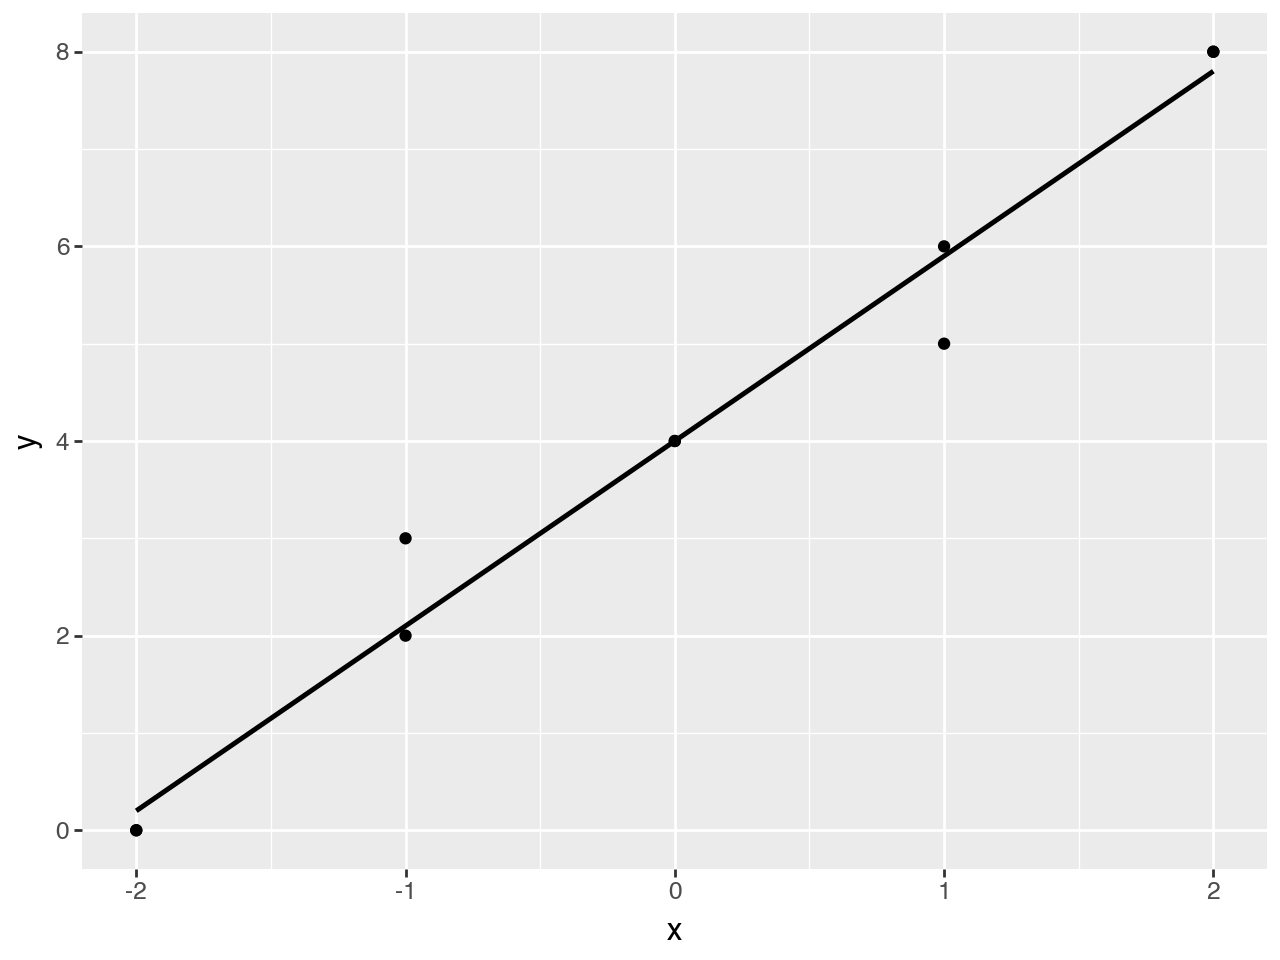
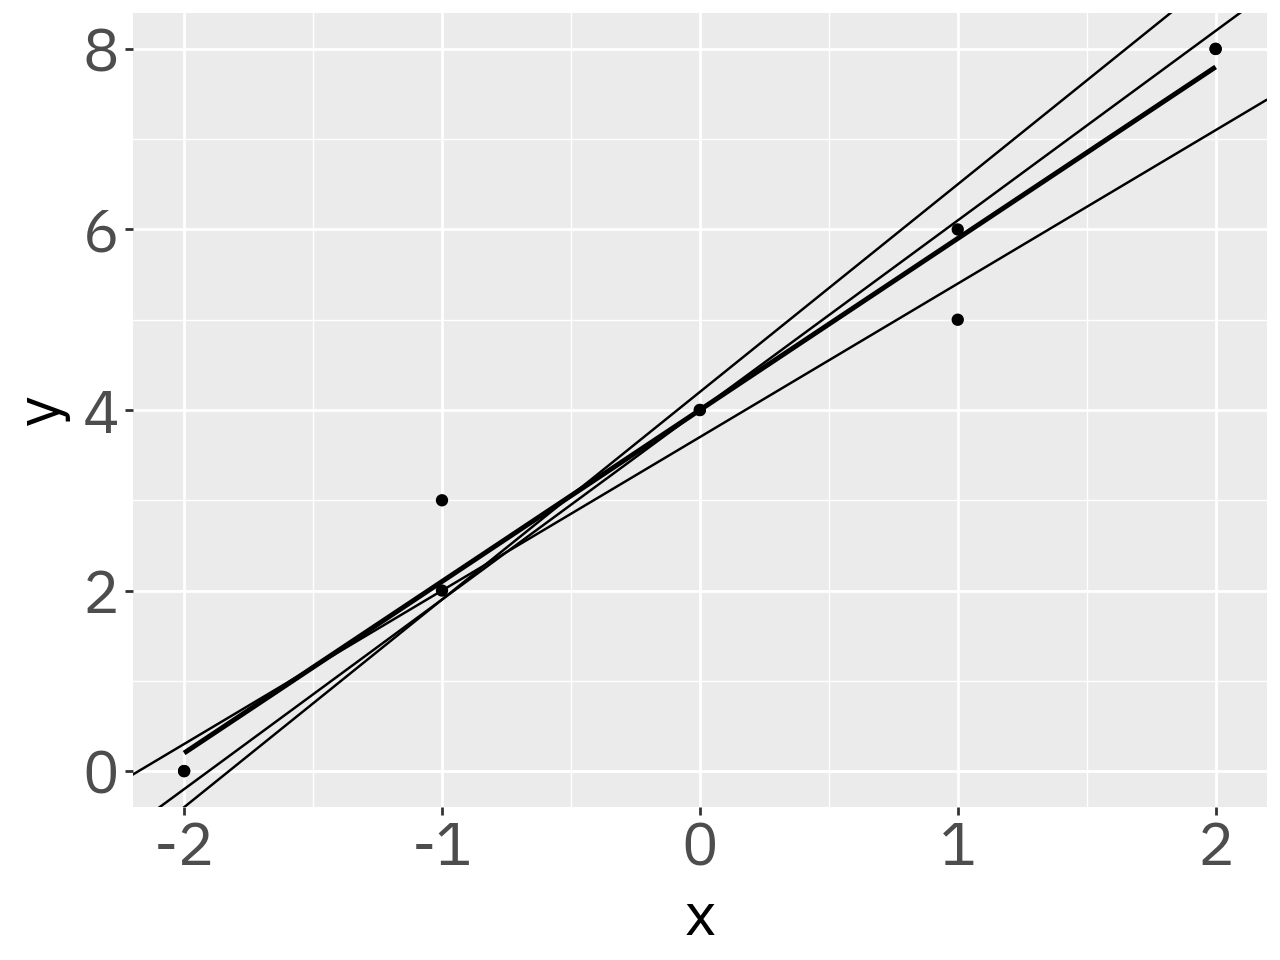
feat: add regression

diff --git a/docs/index.html b/docs/index.html
@@ -426,7 +426,7 @@ Thiago Pires <br> –
 
 </div>
 <script type="pyodide-1-contents">
[2 lines of base64/hex data omitted]
 </script>
 </div>
 </div>
@@ -448,7 +448,7 @@ eyJhdHRyIjp7ImVkaXQiOnRydWUsImV2YWwiOnRydWV9LCJjb2RlIjoiIyBUaXBvIGludGVpcm8gKGlu
 
 </div>
 <script type="pyodide-2-contents">
[2 lines of base64/hex data omitted]
 </script>
 </div>
 </div><div class="column" style="width:48%;">
@@ -475,7 +475,7 @@ eyJhdHRyIjp7ImVkaXQiOnRydWUsImV2YWwiOnRydWV9LCJjb2RlIjoieCA9IDZcblxuaWYgeCA+IDM6
 
 </div>
 <script type="pyodide-3-contents">
[2 lines of base64/hex data omitted]
 </script>
 </div>
 </div>
@@ -503,7 +503,7 @@ eyJhdHRyIjp7ImVkaXQiOnRydWUsImV2YWwiOnRydWV9LCJjb2RlIjoieCA9IDFcbndoaWxlIHggPD0g
 
 </div>
 <script type="pyodide-4-contents">
[2 lines of base64/hex data omitted]
 </script>
 </div>
 </div>
@@ -530,7 +530,7 @@ eyJhdHRyIjp7ImVkaXQiOnRydWUsImV2YWwiOnRydWV9LCJjb2RlIjoieCA9IDFcbnNvbWEgPSAwXG53
 
 </div>
 <script type="pyodide-5-contents">
[2 lines of base64/hex data omitted]
 </script>
 </div>
 </div>
@@ -546,7 +546,7 @@ eyJhdHRyIjp7ImVkaXQiOnRydWUsImV2YWwiOnRydWV9LCJjb2RlIjoieCA9IFsxLCA1LCAzLCBcImJc
 <div class="columns">
 <div class="column addspace" style="width:45%;">
 <p>O <code>for</code> é uma forma mais prática de trabalhar com repetições quando estamos operando sobre uma lista</p>
-<div id="0612d724" class="cell" data-execution_count="1">
+<div id="7a82af3d" class="cell" data-execution_count="1">
 <div class="sourceCode cell-code" id="cb1"><pre class="sourceCode numberSource python number-lines code-with-copy"><code class="sourceCode python"><span id="cb1-1"><a href=""></a><span class="cf">for</span> i <span class="kw">in</span> [<span class="dv">1</span>, <span class="dv">2</span>, <span class="dv">3</span>, <span class="dv">4</span>]:</span>
 <span id="cb1-2"><a href=""></a>  <span class="bu">print</span>(i<span class="op">**</span><span class="dv">2</span>)</span></code><button title="Copy to Clipboard" class="code-copy-button"><i class="bi"></i></button></pre></div>
 <div class="cell-output cell-output-stdout">
@@ -563,7 +563,7 @@ eyJhdHRyIjp7ImVkaXQiOnRydWUsImV2YWwiOnRydWV9LCJjb2RlIjoieCA9IFsxLCA1LCAzLCBcImJc
 
 </div>
 <script type="pyodide-6-contents">
[2 lines of base64/hex data omitted]
 </script>
 </div>
 </div>
@@ -579,7 +579,7 @@ eyJhdHRyIjp7ImVkaXQiOnRydWUsImV2YWwiOnRydWV9LCJjb2RlIjoiW2kqKjIgZm9yIGkgaW4gWzEs
 <p><a href="https://viacep.com.br/" class="uri">https://viacep.com.br/</a></p>
 <p><br>
 </p>
-<div id="cd329b13" class="cell" data-execution_count="2">
+<div id="cdd88b28" class="cell" data-execution_count="2">
 <div class="sourceCode cell-code" id="cb3"><pre class="sourceCode numberSource python number-lines code-with-copy"><code class="sourceCode python"><span id="cb3-1"><a href=""></a><span class="im">import</span> requests</span>
 <span id="cb3-2"><a href=""></a></span>
 <span id="cb3-3"><a href=""></a><span class="co"># Função que fará requisição à API</span></span>
@@ -597,7 +597,7 @@ eyJhdHRyIjp7ImVkaXQiOnRydWUsImV2YWwiOnRydWV9LCJjb2RlIjoiW2kqKjIgZm9yIGkgaW4gWzEs
 <span id="cb3-15"><a href=""></a>             <span class="st">"20720293"</span>]</span>
 <span id="cb3-16"><a href=""></a></span>
 <span id="cb3-17"><a href=""></a>[consulta_cep(cep)[<span class="dv">0</span>] <span class="cf">for</span> cep <span class="kw">in</span> lista_cep <span class="cf">if</span> consulta_cep(cep)[<span class="dv">1</span>] <span class="op">==</span> <span class="st">"SP"</span>]</span></code><button title="Copy to Clipboard" class="code-copy-button"><i class="bi"></i></button></pre></div>
-<div class="cell-output cell-output-display" data-execution_count="128">
+<div class="cell-output cell-output-display" data-execution_count="43">
 <pre><code>['Rua Joaquim Marcelino Leite',
  'Avenida Cabo Pedro Hoffman',
  'Rua José de Anchieta',
@@ -610,7 +610,7 @@ eyJhdHRyIjp7ImVkaXQiOnRydWUsImV2YWwiOnRydWV9LCJjb2RlIjoiW2kqKjIgZm9yIGkgaW4gWzEs
 <p><a href="https://dadosabertos.bcb.gov.br/dataset/dolar-americano-usd-todos-os-boletins-diarios" class="uri">https://dadosabertos.bcb.gov.br/dataset/dolar-americano-usd-todos-os-boletins-diarios</a></p>
 <p><br>
 </p>
-<div id="5717b074" class="cell" data-execution_count="3">
+<div id="f6623b0a" class="cell" data-execution_count="3">
 <div class="sourceCode cell-code" id="cb5"><pre class="sourceCode numberSource python number-lines code-with-copy"><code class="sourceCode python"><span id="cb5-1"><a href=""></a><span class="im">import</span> requests</span>
 <span id="cb5-2"><a href=""></a><span class="kw">def</span> cotar(data):</span>
 <span id="cb5-3"><a href=""></a>  url <span class="op">=</span> <span class="ss">f"https://olinda.bcb.gov.br/olinda/servico/PTAX/versao/v1/odata/CotacaoDolarDia(dataCotacao=@dataCotacao)?%40dataCotacao='</span><span class="sc">{</span>data<span class="sc">}</span><span class="ss">'&amp;%24format=json"</span></span>
@@ -619,7 +619,7 @@ eyJhdHRyIjp7ImVkaXQiOnRydWUsImV2YWwiOnRydWV9LCJjb2RlIjoiW2kqKjIgZm9yIGkgaW4gWzEs
 <span id="cb5-6"><a href=""></a>  <span class="cf">return</span> res[<span class="st">'value'</span>][<span class="dv">0</span>][<span class="st">'cotacaoVenda'</span>]</span>
 <span id="cb5-7"><a href=""></a></span>
 <span id="cb5-8"><a href=""></a>cotar(<span class="st">"08282024"</span>)</span></code><button title="Copy to Clipboard" class="code-copy-button"><i class="bi"></i></button></pre></div>
-<div class="cell-output cell-output-display" data-execution_count="129">
+<div class="cell-output cell-output-display" data-execution_count="44">
 <pre><code>5.5315</code></pre>
 </div>
 </div>
@@ -632,10 +632,10 @@ eyJhdHRyIjp7ImVkaXQiOnRydWUsImV2YWwiOnRydWV9LCJjb2RlIjoiW2kqKjIgZm9yIGkgaW4gWzEs
 <p><br>
 </p>
 <p>Para resolver este problema precisamos ententender como o Python lida com datas. É possível transformar uma string <code>"08122024"</code> em um tipo de dado <code>datetime</code>. O argumento <code>"%m%d%Y"</code> é para identificar como a estrutura da data está sendo recebida - mês, dia e ano</p>
-<div id="37a89c5f" class="cell" data-execution_count="4">
+<div id="077671b5" class="cell" data-execution_count="4">
 <div class="sourceCode cell-code" id="cb7"><pre class="sourceCode numberSource python number-lines code-with-copy"><code class="sourceCode python"><span id="cb7-1"><a href=""></a><span class="im">from</span> datetime <span class="im">import</span> datetime</span>
 <span id="cb7-2"><a href=""></a>datetime.strptime(<span class="st">"08122024"</span>, <span class="st">"%m</span><span class="sc">%d</span><span class="st">%Y"</span>)</span></code><button title="Copy to Clipboard" class="code-copy-button"><i class="bi"></i></button></pre></div>
-<div class="cell-output cell-output-display" data-execution_count="130">
+<div class="cell-output cell-output-display" data-execution_count="45">
 <pre><code>datetime.datetime(2024, 8, 12, 0, 0)</code></pre>
 </div>
 </div>
@@ -645,7 +645,7 @@ eyJhdHRyIjp7ImVkaXQiOnRydWUsImV2YWwiOnRydWV9LCJjb2RlIjoiW2kqKjIgZm9yIGkgaW4gWzEs
 
 </div>
 <script type="pyodide-7-contents">
[2 lines of base64/hex data omitted]
 </script>
 </div>
 </section>
@@ -654,11 +654,11 @@ eyJhdHRyIjp7ImVkaXQiOnRydWUsImV2YWwiOnRydWV9LCJjb2RlIjoiZnJvbSBkYXRldGltZSBpbXBv
 <p><br>
 </p>
 <p>Para retornar de um tipo <code>datetime</code> para uma <em>string</em>, com a estrutura <code>"%m%d%Y"</code>,pode-se utilizar a função <code>strftime</code></p>
-<div id="06aa5075" class="cell" data-execution_count="5">
+<div id="2ad804f0" class="cell" data-execution_count="5">
 <div class="sourceCode cell-code" id="cb9"><pre class="sourceCode numberSource python number-lines code-with-copy"><code class="sourceCode python"><span id="cb9-1"><a href=""></a><span class="im">from</span> datetime <span class="im">import</span> datetime, timedelta</span>
 <span id="cb9-2"><a href=""></a>data <span class="op">=</span> datetime.strptime(<span class="st">"08122024"</span>, <span class="st">"%m</span><span class="sc">%d</span><span class="st">%Y"</span>) <span class="op">-</span> timedelta(<span class="dv">1</span>)</span>
 <span id="cb9-3"><a href=""></a>datetime.strftime(data, <span class="st">"%m</span><span class="sc">%d</span><span class="st">%Y"</span>) </span></code><button title="Copy to Clipboard" class="code-copy-button"><i class="bi"></i></button></pre></div>
-<div class="cell-output cell-output-display" data-execution_count="131">
+<div class="cell-output cell-output-display" data-execution_count="46">
 <pre><code>'08112024'</code></pre>
 </div>
 </div>
@@ -668,7 +668,7 @@ eyJhdHRyIjp7ImVkaXQiOnRydWUsImV2YWwiOnRydWV9LCJjb2RlIjoiZnJvbSBkYXRldGltZSBpbXBv
 <p><br>
 </p>
 <p>Nos dias <em>não úteis</em> a API retorna uma lista vazia na chave <code>value</code></p>
-<div id="d50b7d49" class="cell" data-execution_count="6">
+<div id="e6584169" class="cell" data-execution_count="6">
 <div class="sourceCode cell-code" id="cb11"><pre class="sourceCode numberSource python number-lines code-with-copy"><code class="sourceCode python"><span id="cb11-1"><a href=""></a>data <span class="op">=</span> <span class="st">"09012024"</span></span>
 <span id="cb11-2"><a href=""></a></span>
 <span id="cb11-3"><a href=""></a>url <span class="op">=</span> <span class="ss">f"https://olinda.bcb.gov.br/olinda/servico/PTAX/versao/v1/odata/CotacaoDolarDia(dataCotacao=@dataCotacao)?%40dataCotacao='</span><span class="sc">{</span>data<span class="sc">}</span><span class="ss">'&amp;%24format=json"</span></span>
@@ -684,7 +684,7 @@ eyJhdHRyIjp7ImVkaXQiOnRydWUsImV2YWwiOnRydWV9LCJjb2RlIjoiZnJvbSBkYXRldGltZSBpbXBv
 <h2>Consultado a cotação do Dólar</h2>
 <p><br>
 </p>
-<div id="c90f0af7" class="cell" data-execution_count="7">
+<div id="82891ac6" class="cell" data-execution_count="7">
 <div class="sourceCode cell-code" id="cb13"><pre class="sourceCode numberSource python number-lines code-with-copy"><code class="sourceCode python"><span id="cb13-1"><a href=""></a><span class="im">import</span> requests</span>
 <span id="cb13-2"><a href=""></a></span>
 <span id="cb13-3"><a href=""></a><span class="kw">def</span> cotar(data):</span>
@@ -699,7 +699,7 @@ eyJhdHRyIjp7ImVkaXQiOnRydWUsImV2YWwiOnRydWV9LCJjb2RlIjoiZnJvbSBkYXRldGltZSBpbXBv
 <span id="cb13-12"><a href=""></a>    <span class="cf">return</span> cotar(dia_anterior)</span>
 <span id="cb13-13"><a href=""></a></span>
 <span id="cb13-14"><a href=""></a>[cotar(i) <span class="cf">for</span> i <span class="kw">in</span> [<span class="st">"09022024"</span>, <span class="st">"09012024"</span>, <span class="st">"08312024"</span>, <span class="st">"08302024"</span>, <span class="st">"08292024"</span>]]</span></code><button title="Copy to Clipboard" class="code-copy-button"><i class="bi"></i></button></pre></div>
-<div class="cell-output cell-output-display" data-execution_count="133">
+<div class="cell-output cell-output-display" data-execution_count="48">
 <pre><code>[5.623, 5.6562, 5.6562, 5.6562, 5.6358]</code></pre>
 </div>
 </div>
@@ -722,7 +722,7 @@ eyJhdHRyIjp7ImVkaXQiOnRydWUsImV2YWwiOnRydWV9LCJjb2RlIjoiZnJvbSBkYXRldGltZSBpbXBv
 <h3 id="autenticação">Autenticação</h3>
 <p><br>
 </p>
-<div id="bdbde274" class="cell" data-execution_count="8">
+<div id="2917d308" class="cell" data-execution_count="8">
 <div class="sourceCode cell-code" id="annotated-cell-7"><pre class="sourceCode numberSource python code-annotation-code number-lines code-with-copy code-annotated"><code class="sourceCode python"><span id="annotated-cell-7-1"><a href="#annotated-cell-7-1"></a><span class="im">import</span> os</span>
 <span id="annotated-cell-7-2"><a href="#annotated-cell-7-2"></a><span class="im">import</span> requests</span>
 <span id="annotated-cell-7-3"><a href="#annotated-cell-7-3"></a><span class="im">from</span> dotenv <span class="im">import</span> load_dotenv</span>
@@ -749,10 +749,10 @@ eyJhdHRyIjp7ImVkaXQiOnRydWUsImV2YWwiOnRydWV9LCJjb2RlIjoiZnJvbSBkYXRldGltZSBpbXBv
 </dd>
 </dl>
 </div>
-<div class="cell-output cell-output-display" data-execution_count="134">
+<div class="cell-output cell-output-display" data-execution_count="49">
 <pre><code>True</code></pre>
 </div>
-<div class="cell-output cell-output-display" data-execution_count="134">
+<div class="cell-output cell-output-display" data-execution_count="49">
 <pre><code>&lt;Response [200]&gt;</code></pre>
 </div>
 </div>
@@ -762,7 +762,7 @@ eyJhdHRyIjp7ImVkaXQiOnRydWUsImV2YWwiOnRydWV9LCJjb2RlIjoiZnJvbSBkYXRldGltZSBpbXBv
 <h3 id="busca-por-linhas-segundo-termos">Busca por linhas segundo termos</h3>
 <p><br>
 </p>
-<div id="bd07a92e" class="cell" data-execution_count="9">
+<div id="8e193631" class="cell" data-execution_count="9">
 <div class="sourceCode cell-code" id="annotated-cell-8"><pre class="sourceCode numberSource python code-annotation-code number-lines code-with-copy code-annotated"><code class="sourceCode python"><button class="code-annotation-anchor" data-target-cell="annotated-cell-8" data-target-annotation="1">1</button><span id="annotated-cell-8-1" class="code-annotation-target"><a href="#annotated-cell-8-1"></a>linhas_lapa <span class="op">=</span> s.get(</span>
 <span id="annotated-cell-8-2"><a href="#annotated-cell-8-2"></a>    <span class="st">"http://api.olhovivo.sptrans.com.br/v2.1/Linha/Buscar?termosBusca=Lapa"</span></span>
 <span id="annotated-cell-8-3"><a href="#annotated-cell-8-3"></a>)</span>
@@ -780,7 +780,7 @@ eyJhdHRyIjp7ImVkaXQiOnRydWUsImV2YWwiOnRydWV9LCJjb2RlIjoiZnJvbSBkYXRldGltZSBpbXBv
 </dd>
 </dl>
 </div>
-<div class="cell-output cell-output-display" data-execution_count="135">
+<div class="cell-output cell-output-display" data-execution_count="50">
 <pre><code>[{'cl': 841,
   'lc': False,
   'lt': '118Y',
@@ -810,7 +810,7 @@ eyJhdHRyIjp7ImVkaXQiOnRydWUsImV2YWwiOnRydWV9LCJjb2RlIjoiZnJvbSBkYXRldGltZSBpbXBv
 <h3 id="busca-por-paradas">Busca por paradas</h3>
 <p><br>
 </p>
-<div id="b4496230" class="cell" data-execution_count="10">
+<div id="2e5a7b12" class="cell" data-execution_count="10">
 <div class="sourceCode cell-code" id="annotated-cell-9"><pre class="sourceCode numberSource python code-annotation-code number-lines code-with-copy code-annotated"><code class="sourceCode python"><button class="code-annotation-anchor" data-target-cell="annotated-cell-9" data-target-annotation="1">1</button><span id="annotated-cell-9-1" class="code-annotation-target"><a href="#annotated-cell-9-1"></a>res <span class="op">=</span> s.get(</span>
 <span id="annotated-cell-9-2"><a href="#annotated-cell-9-2"></a>    <span class="st">"http://api.olhovivo.sptrans.com.br/v2.1/Parada/BuscarParadasPorLinha?codigoLinha=2506"</span></span>
 <span id="annotated-cell-9-3"><a href="#annotated-cell-9-3"></a>)</span>
@@ -828,7 +828,7 @@ eyJhdHRyIjp7ImVkaXQiOnRydWUsImV2YWwiOnRydWV9LCJjb2RlIjoiZnJvbSBkYXRldGltZSBpbXBv
 </dd>
 </dl>
 </div>
-<div class="cell-output cell-output-display" data-execution_count="136">
+<div class="cell-output cell-output-display" data-execution_count="51">
 <pre><code>[{'cp': 7014417,
   'np': 'ANGELICA B/C',
   'ed': 'AV   ANGELICA',
@@ -852,7 +852,7 @@ eyJhdHRyIjp7ImVkaXQiOnRydWUsImV2YWwiOnRydWV9LCJjb2RlIjoiZnJvbSBkYXRldGltZSBpbXBv
 <h3 id="paradas-de-ônibus-no-mapa">Paradas de ônibus no mapa</h3>
 <p><br>
 </p>
-<div id="c3b207c8" class="cell" data-execution_count="11">
+<div id="d40482f4" class="cell" data-execution_count="11">
 <div class="sourceCode cell-code" id="cb19"><pre class="sourceCode numberSource python number-lines code-with-copy"><code class="sourceCode python"><span id="cb19-1"><a href=""></a><span class="im">from</span> folium <span class="im">import</span> Map, Marker</span>
 <span id="cb19-2"><a href=""></a></span>
 <span id="cb19-3"><a href=""></a>m <span class="op">=</span> Map(location<span class="op">=</span>[paradas[<span class="dv">3</span>][<span class="st">"py"</span>], paradas[<span class="dv">3</span>][<span class="st">"px"</span>]], zoom_start<span class="op">=</span><span class="dv">14</span>)</span>
@@ -871,7 +871,7 @@ eyJhdHRyIjp7ImVkaXQiOnRydWUsImV2YWwiOnRydWV9LCJjb2RlIjoiZnJvbSBkYXRldGltZSBpbXBv
 <h3 id="posições-em-tempo-real">Posições em tempo real</h3>
 <p><br>
 </p>
-<div id="ea5aeabd" class="cell" data-execution_count="12">
+<div id="909fb535" class="cell" data-execution_count="12">
 <div class="sourceCode cell-code" id="annotated-cell-11"><pre class="sourceCode numberSource python code-annotation-code number-lines code-with-copy code-annotated"><code class="sourceCode python"><span id="annotated-cell-11-1"><a href="#annotated-cell-11-1"></a>pos <span class="op">=</span> s.get(</span>
 <span id="annotated-cell-11-2"><a href="#annotated-cell-11-2"></a>    <span class="st">"http://api.olhovivo.sptrans.com.br/v2.1//Posicao/Linha?codigoLinha=2506"</span></span>
 <button class="code-annotation-anchor" data-target-cell="annotated-cell-11" data-target-annotation="1">1</button><span id="annotated-cell-11-3" class="code-annotation-target"><a href="#annotated-cell-11-3"></a>)</span>
@@ -1015,16 +1015,16 @@ a_{31} &amp; a_{32} &amp; a_{33} \\
 <p><br>
 </p>
 <p>Matriz pode ser definida como uma lista de listas</p>
-<div id="adba404e" class="cell" data-execution_count="13">
+<div id="ad9ce37f" class="cell" data-execution_count="13">
 <div class="sourceCode cell-code" id="cb25"><pre class="sourceCode numberSource python number-lines code-with-copy"><code class="sourceCode python"><span id="cb25-1"><a href=""></a>[[<span class="dv">1</span>, <span class="dv">2</span>, <span class="dv">3</span>], [<span class="dv">4</span>, <span class="dv">5</span>, <span class="dv">6</span>], [<span class="dv">7</span>, <span class="dv">8</span>, <span class="dv">9</span>]]</span></code><button title="Copy to Clipboard" class="code-copy-button"><i class="bi"></i></button></pre></div>
-<div class="cell-output cell-output-display" data-execution_count="137">
+<div class="cell-output cell-output-display" data-execution_count="52">
 <pre><code>[[1, 2, 3], [4, 5, 6], [7, 8, 9]]</code></pre>
 </div>
 </div>
 <p><br>
 </p>
 <p>Criando uma matriz com <span class="blue"><em>list comprehension</em></span></p>
-<div id="1188071d" class="cell" data-execution_count="14">
+<div id="4ebf5ae2" class="cell" data-execution_count="14">
 <div class="sourceCode cell-code" id="cb27"><pre class="sourceCode numberSource python number-lines code-with-copy"><code class="sourceCode python"><span id="cb27-1"><a href=""></a>matrix <span class="op">=</span> [[column <span class="cf">for</span> column <span class="kw">in</span> <span class="bu">range</span>(<span class="dv">4</span>)] <span class="cf">for</span> row <span class="kw">in</span> <span class="bu">range</span>(<span class="dv">4</span>)]</span>
 <span id="cb27-2"><a href=""></a><span class="bu">print</span>(matrix)</span></code><button title="Copy to Clipboard" class="code-copy-button"><i class="bi"></i></button></pre></div>
 <div class="cell-output cell-output-stdout">
@@ -1034,9 +1034,9 @@ a_{31} &amp; a_{32} &amp; a_{33} \\
 <p><br>
 </p>
 <p>Acessando os valores de uma matrix</p>
-<div id="44d09f98" class="cell" data-execution_count="15">
+<div id="e3783846" class="cell" data-execution_count="15">
 <div class="sourceCode cell-code" id="cb29"><pre class="sourceCode numberSource python number-lines code-with-copy"><code class="sourceCode python"><span id="cb29-1"><a href=""></a>matrix[<span class="dv">2</span>][<span class="dv">3</span>]</span></code><button title="Copy to Clipboard" class="code-copy-button"><i class="bi"></i></button></pre></div>
-<div class="cell-output cell-output-display" data-execution_count="139">
+<div class="cell-output cell-output-display" data-execution_count="54">
 <pre><code>3</code></pre>
 </div>
 </div>
@@ -1050,19 +1050,19 @@ a_{31} &amp; a_{32} &amp; a_{33} \\
 <p><span class="blue">NumPy</span> é uma biblioteca Python usada para trabalhar com arrays.</p>
 <p><br>
 </p>
-<div id="313dbe63" class="cell" data-execution_count="16">
+<div id="86db74c1" class="cell" data-execution_count="16">
 <div class="sourceCode cell-code" id="cb31"><pre class="sourceCode numberSource python number-lines code-with-copy"><code class="sourceCode python"><span id="cb31-1"><a href=""></a><span class="im">import</span> numpy <span class="im">as</span> np</span>
 <span id="cb31-2"><a href=""></a>A <span class="op">=</span> np.array([[<span class="dv">1</span>, <span class="dv">2</span>], [<span class="dv">4</span>, <span class="dv">5</span>]])</span>
 <span id="cb31-3"><a href=""></a>A</span></code><button title="Copy to Clipboard" class="code-copy-button"><i class="bi"></i></button></pre></div>
-<div class="cell-output cell-output-display" data-execution_count="140">
+<div class="cell-output cell-output-display" data-execution_count="55">
 <pre><code>array([[1, 2],
        [4, 5]])</code></pre>
 </div>
 </div>
-<div id="a8f27738" class="cell" data-execution_count="17">
+<div id="68b2ccdf" class="cell" data-execution_count="17">
 <div class="sourceCode cell-code" id="cb33"><pre class="sourceCode numberSource python number-lines code-with-copy"><code class="sourceCode python"><span id="cb33-1"><a href=""></a>B <span class="op">=</span> np.array([[<span class="dv">7</span>, <span class="dv">8</span>], [<span class="dv">9</span>, <span class="dv">10</span>]])</span>
 <span id="cb33-2"><a href=""></a>B</span></code><button title="Copy to Clipboard" class="code-copy-button"><i class="bi"></i></button></pre></div>
-<div class="cell-output cell-output-display" data-execution_count="141">
+<div class="cell-output cell-output-display" data-execution_count="56">
 <pre><code>array([[ 7,  8],
        [ 9, 10]])</code></pre>
 </div>
@@ -1071,9 +1071,9 @@ a_{31} &amp; a_{32} &amp; a_{33} \\
 <ul>
 <li>Soma</li>
 </ul>
-<div id="ca94b8fe" class="cell" data-execution_count="18">
+<div id="49f111e5" class="cell" data-execution_count="18">
 <div class="sourceCode cell-code" id="cb35"><pre class="sourceCode numberSource python number-lines code-with-copy"><code class="sourceCode python"><span id="cb35-1"><a href=""></a>np.add(A, B)</span></code><button title="Copy to Clipboard" class="code-copy-button"><i class="bi"></i></button></pre></div>
-<div class="cell-output cell-output-display" data-execution_count="142">
+<div class="cell-output cell-output-display" data-execution_count="57">
 <pre><code>array([[ 8, 10],
        [13, 15]])</code></pre>
 </div>
@@ -1081,9 +1081,9 @@ a_{31} &amp; a_{32} &amp; a_{33} \\
 <ul>
 <li>Multiplicação</li>
 </ul>
-<div id="47a85142" class="cell" data-execution_count="19">
+<div id="58d5aefc" class="cell" data-execution_count="19">
 <div class="sourceCode cell-code" id="cb37"><pre class="sourceCode numberSource python number-lines code-with-copy"><code class="sourceCode python"><span id="cb37-1"><a href=""></a>np.dot(A, B)</span></code><button title="Copy to Clipboard" class="code-copy-button"><i class="bi"></i></button></pre></div>
-<div class="cell-output cell-output-display" data-execution_count="143">
+<div class="cell-output cell-output-display" data-execution_count="58">
 <pre><code>array([[25, 28],
        [73, 82]])</code></pre>
 </div>
@@ -1091,9 +1091,9 @@ a_{31} &amp; a_{32} &amp; a_{33} \\
 <ul>
 <li>Transposto</li>
 </ul>
-<div id="c279307b" class="cell" data-execution_count="20">
+<div id="1790327f" class="cell" data-execution_count="20">
 <div class="sourceCode cell-code" id="cb39"><pre class="sourceCode numberSource python number-lines code-with-copy"><code class="sourceCode python"><span id="cb39-1"><a href=""></a>np.transpose(A)</span></code><button title="Copy to Clipboard" class="code-copy-button"><i class="bi"></i></button></pre></div>
-<div class="cell-output cell-output-display" data-execution_count="144">
+<div class="cell-output cell-output-display" data-execution_count="59">
 <pre><code>array([[1, 4],
        [2, 5]])</code></pre>
 </div>
@@ -1105,10 +1105,10 @@ a_{31} &amp; a_{32} &amp; a_{33} \\
 <h2>Calculando o inverso de uma matriz</h2>
 <p><br>
 </p>
-<div id="e221c6c9" class="cell" data-execution_count="21">
+<div id="ec348781" class="cell" data-execution_count="21">
 <div class="sourceCode cell-code" id="cb41"><pre class="sourceCode numberSource python number-lines code-with-copy"><code class="sourceCode python"><span id="cb41-1"><a href=""></a>matrix <span class="op">=</span> np.array([[<span class="dv">1</span>, <span class="dv">2</span>], [<span class="dv">3</span>, <span class="dv">4</span>]])</span>
 <span id="cb41-2"><a href=""></a>np.linalg.inv(matrix)</span></code><button title="Copy to Clipboard" class="code-copy-button"><i class="bi"></i></button></pre></div>
-<div class="cell-output cell-output-display" data-execution_count="145">
+<div class="cell-output cell-output-display" data-execution_count="60">
 <pre><code>array([[-2. ,  1. ],
        [ 1.5, -0.5]])</code></pre>
 </div>
@@ -1135,11 +1135,11 @@ Ax = b
 x = A^{-1}b
 \]</span></p>
 </div><div class="column">
-<div id="e59878a2" class="cell" data-execution_count="22">
+<div id="c7b3fe01" class="cell" data-execution_count="22">
 <div class="sourceCode cell-code" id="cb43"><pre class="sourceCode numberSource python number-lines code-with-copy"><code class="sourceCode python"><span id="cb43-1"><a href=""></a>A <span class="op">=</span> np.array([[<span class="dv">1</span>, <span class="dv">2</span>], [<span class="dv">3</span>, <span class="op">-</span><span class="dv">5</span>]])</span>
 <span id="cb43-2"><a href=""></a>b <span class="op">=</span> np.array([<span class="dv">5</span>, <span class="dv">4</span>])</span>
 <span id="cb43-3"><a href=""></a>np.dot(np.linalg.inv(A), b)</span></code><button title="Copy to Clipboard" class="code-copy-button"><i class="bi"></i></button></pre></div>
-<div class="cell-output cell-output-display" data-execution_count="146">
+<div class="cell-output cell-output-display" data-execution_count="61">
 <pre><code>array([3., 1.])</code></pre>
 </div>
 </div>
@@ -1171,7 +1171,7 @@ x = A^{-1}b
 \hat{\beta} = (X'X)^{-1}X'y
 \]</span></p>
 </div><div class="column">
-<div id="6222c3ee" class="cell" data-execution_count="23">
+<div id="34ad8174" class="cell" data-execution_count="23">
 <div class="cell-output cell-output-display">
 <div>
 <figure>
@@ -1191,7 +1191,7 @@ x = A^{-1}b
[1 lines of base64/hex data omitted]
 </script>
 <script type="ojs-module-contents">
[2 lines of base64/hex data omitted]
 </script>
 <div id="exercise-loading-indicator" class="exercise-loading-indicator d-none d-flex align-items-center gap-2">
 <div id="exercise-loading-status" class="d-flex gap-2">
